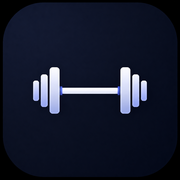
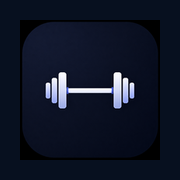
Add files via upload

Changed region(s): [[0.0, 0.0, 1.0, 1.0], [0.1667, 0.3611, 0.8333, 0.6389], [0.1111, 0.1111, 0.8889, 0.8889]]

diff --git a/styles.css b/styles.css
@@ -2,21 +2,23 @@
 :root{
   --bg:#050812;--card:#121b2d;--card2:#182338;--text:#f2f6ff;--muted:#96a6bb;
   --line:#2a3650;--brand:#70a7ff;--purple:#8b5cf6;--green:#4ade80;--yellow:#facc15;--red:#fb7185;--radius:22px;
+  --nav-bottom:78px;
+  --content-bottom:178px;
 }
 *{box-sizing:border-box}
 html,body{
-  margin:0;
-  padding:0;
-  width:100%;
-  height:100%;
-  background:#050812!important;
-  color-scheme:dark;
+  margin:0;padding:0;width:100%;height:100%;
+  background:#050812!important;color-scheme:dark;
+  overflow:hidden;
 }
 body{
   font-family:Inter,system-ui,-apple-system,Segoe UI,Arial,sans-serif;
   color:var(--text);
   -webkit-font-smoothing:antialiased;
-  overflow:hidden;
+}
+body.standalone{
+  --nav-bottom:12px;
+  --content-bottom:112px;
 }
 body:before{
   content:"";
@@ -52,6 +54,7 @@ label{font-size:12px;color:var(--muted);display:block;margin-bottom:7px}
   display:flex;
   flex-direction:column;
   overflow:hidden;
+  background:transparent;
 }
 .topbar{
   flex:0 0 auto;
@@ -63,57 +66,29 @@ label{font-size:12px;color:var(--muted);display:block;margin-bottom:7px}
 .title-row{display:flex;justify-content:space-between;gap:10px;align-items:flex-start}
 .brand{display:flex;gap:12px;align-items:center}
 .logo{
+  width:44px;height:44px;border-radius:16px;object-fit:contain;
+  background:#07101f;
+  padding:0;
+  border:1px solid rgba(255,255,255,.12);
+  box-shadow:0 6px 20px rgba(0,0,0,.30);
+  flex:0 0 auto;
+  display:block;
+}
+.logo-fallback{
   width:44px;height:44px;border-radius:16px;display:grid;place-items:center;position:relative;overflow:hidden;
   background:linear-gradient(135deg,#111827,#0b1020 55%,#182338);
   border:1px solid rgba(255,255,255,.14);
   box-shadow:0 6px 20px rgba(0,0,0,.30);
   flex:0 0 auto;
 }
-.logo:before{
-  content:"";
-  width:30px;height:9px;border-radius:999px;
+.logo-fallback:before{
+  content:"";width:30px;height:9px;border-radius:999px;
   background:linear-gradient(90deg,#f8fbff,#70a7ff);
-  box-shadow:
-    -13px 0 0 -2px #f8fbff,
-    13px 0 0 -2px #f8fbff,
-    -18px 0 0 -4px #70a7ff,
-    18px 0 0 -4px #70a7ff;
+  box-shadow:-13px 0 0 -2px #f8fbff,13px 0 0 -2px #f8fbff,-18px 0 0 -4px #70a7ff,18px 0 0 -4px #70a7ff;
 }
-.logo:after{content:"";position:absolute;inset:0;background:radial-gradient(circle at 25% 20%,rgba(112,167,255,.25),transparent 35%);pointer-events:none}
 h1{margin:0;font-size:18px}
 .sub{font-size:12px;color:var(--muted);margin-top:3px}
 .profile-select{max-width:116px;min-height:42px;padding:9px 10px;border-radius:14px;font-size:13px}
-
-.nav{
-  flex:0 0 auto;
-  display:flex;
-  gap:8px;
-  overflow-x:auto;
-  padding:10px 14px;
-  background:rgba(8,13,24,.90);
-  border-bottom:1px solid rgba(255,255,255,.07);
-  -webkit-overflow-scrolling:touch;
-}
-.nav::-webkit-scrollbar{display:none}
-.nav button{
-  flex:0 0 auto;
-  min-height:44px;
-  padding:9px 13px;
-  border-radius:999px;
-  display:flex;
-  align-items:center;
-  gap:6px;
-  font-size:13px;
-  background:rgba(255,255,255,.055);
-  color:var(--muted);
-  border:1px solid transparent;
-}
-.nav button.active{
-  background:rgba(112,167,255,.18);
-  border-color:rgba(112,167,255,.25);
-  color:var(--text);
-}
-.ico{font-size:17px}
 
 .content{
   flex:1 1 auto;
@@ -121,9 +96,36 @@ h1{margin:0;font-size:18px}
   overflow-y:auto;
   overflow-x:hidden;
   -webkit-overflow-scrolling:touch;
-  padding:14px 14px calc(24px + env(safe-area-inset-bottom));
+  padding:14px 14px calc(var(--content-bottom) + env(safe-area-inset-bottom));
   overscroll-behavior:contain;
 }
+
+.nav{
+  position:fixed;
+  left:50%;
+  bottom:calc(var(--nav-bottom) + env(safe-area-inset-bottom));
+  transform:translateX(-50%);
+  width:min(760px,calc(100vw - 22px));
+  z-index:2147483647;
+  background:rgba(13,20,35,.96);
+  backdrop-filter:blur(18px);
+  border:1px solid rgba(255,255,255,.10);
+  border-radius:24px;
+  padding:8px;
+  display:grid;
+  grid-template-columns:repeat(5,1fr);
+  gap:5px;
+  pointer-events:auto;
+  box-shadow:0 18px 60px rgba(0,0,0,.45);
+}
+.nav button{
+  background:transparent;color:var(--muted);padding:8px 2px;min-height:54px;
+  display:flex;flex-direction:column;align-items:center;justify-content:center;gap:2px;font-size:10.5px;
+  pointer-events:auto;
+}
+.nav button.active{background:rgba(112,167,255,.16);color:var(--text)}
+.ico{font-size:18px}
+
 .card{
   background:linear-gradient(180deg,rgba(255,255,255,.05),rgba(255,255,255,.025));
   border:1px solid rgba(255,255,255,.085);
@@ -154,5 +156,5 @@ details summary{cursor:pointer;color:#d6e6ff;font-weight:800;padding:10px 0}.alt
 .calendar-card{border:1px solid var(--line);background:rgba(255,255,255,.035);border-radius:22px;padding:14px}.calendar-top{display:flex;align-items:center;justify-content:space-between;gap:10px;margin-bottom:10px}.calendar-top h2{margin:0;text-align:center;text-transform:lowercase}.calendar-top p{margin:3px 0 0;text-align:center;font-size:12px}.calendar-top button{min-width:46px;padding:10px 12px;font-size:22px;line-height:1}
 .calendar-legend{display:flex;justify-content:center;gap:12px;flex-wrap:wrap;color:var(--muted);font-size:12px;margin:8px 0 12px}.legend-dot{width:10px;height:10px;display:inline-block;border-radius:999px;margin-right:5px}.legend-dot.train{background:#70a7ff}.legend-dot.diet{background:#facc15}
 .week-labels{display:grid;grid-template-columns:repeat(7,1fr);gap:4px;margin-bottom:7px}.week-labels span{text-align:center;color:var(--muted);font-size:13px;font-weight:800}.month-grid{display:grid;grid-template-columns:repeat(7,1fr);gap:6px}.cal-cell{min-height:58px;border-radius:16px;border:1px solid rgba(255,255,255,.06);background:rgba(255,255,255,.035);padding:6px 4px;display:flex;flex-direction:column;align-items:center;justify-content:space-between}.cal-cell.empty{background:transparent;border-color:transparent}.cal-cell.today{border-color:rgba(112,167,255,.65);box-shadow:0 0 0 1px rgba(112,167,255,.2) inset}.cal-day{font-size:13px;font-weight:850;color:var(--text);line-height:1}.cal-icons{display:flex;justify-content:center;align-items:center;gap:3px;min-height:28px}.cal-icon{width:25px;height:25px;border-radius:999px;display:inline-grid;place-items:center;font-size:13px;line-height:1;box-shadow:0 4px 10px rgba(0,0,0,.22)}.cal-icon.train{background:#234d88}.cal-icon.diet{background:#7b5b12}
-@media(max-width:720px){.grid.three,.grid.two,.form-grid,.calendar-grid{grid-template-columns:1fr}.card{padding:15px}h2{font-size:21px}.nav button{font-size:12px}}
+@media(max-width:720px){.grid.three,.grid.two,.form-grid,.calendar-grid{grid-template-columns:1fr}.card{padding:15px}h2{font-size:21px}}
 @media(max-width:420px){.calendar-card{padding:12px}.month-grid{gap:4px}.cal-cell{min-height:52px;border-radius:14px;padding:5px 2px}.cal-icon{width:22px;height:22px;font-size:12px}.cal-day{font-size:12px}.week-labels span{font-size:12px}}

diff --git a/app.js b/app.js
@@ -1,7 +1,7 @@
 
 const PLAN = window.PLAN_DATA;
-const KEY = "sheipados_v11";
-const OLD_KEYS = ["sheipados_v10","sheipados_v9","sheipados_v8","sheipados_v7","sheipados_v6","sheipados_v5","sheipados_v4"];
+const KEY = "sheipados_v12";
+const OLD_KEYS = ["sheipados_v11","sheipados_v10","sheipados_v9","sheipados_v8","sheipados_v7","sheipados_v6","sheipados_v5","sheipados_v4"];
 const tabs = [
   ["train","Treino","✅"],
   ["diet","Dieta","🍽️"],
@@ -9,6 +9,15 @@ const tabs = [
   ["progress","Evolução","📈"],
   ["more","Mais","⚙️"]
 ];
+
+function applyDisplayModeClass(){
+  const standalone = window.matchMedia("(display-mode: standalone)").matches || window.navigator.standalone === true;
+  document.body.classList.toggle("standalone", standalone);
+  document.body.classList.toggle("browser-mode", !standalone);
+}
+applyDisplayModeClass();
+window.matchMedia("(display-mode: standalone)").addEventListener?.("change", applyDisplayModeClass);
+
 let state = loadState();
 let activeTab = location.hash.replace("#","") || "train";
 let timers = [];
@@ -52,7 +61,7 @@ function shell(content){
     <header class="topbar">
       <div class="title-row">
         <div class="brand">
-          <div class="logo" aria-label="Sheipados"></div>
+          <img class="logo" src="./icon-192.png?v=12" alt="Sheipados" onerror="this.outerHTML='<div class=&quot;logo-fallback&quot; aria-label=&quot;Sheipados&quot;></div>'">
           <div><h1>${PLAN.project.name}</h1><div class="sub">${p.name} • ${p.goal||"Plano"}</div></div>
         </div>
         <select class="profile-select" onchange="switchProfile(this.value)">
@@ -60,8 +69,8 @@ function shell(content){
         </select>
       </div>
     </header>
-    <nav class="nav">${tabs.map(t=>`<button class="${activeTab===t[0]?"active":""}" onclick="setTab('${t[0]}')"><span class="ico">${t[2]}</span><span>${t[1]}</span></button>`).join("")}</nav>
     <main class="content">${content}</main>
+    <nav class="nav">${tabs.map(t=>`<button class="${activeTab===t[0]?"active":""}" onclick="setTab('${t[0]}')"><span class="ico">${t[2]}</span><span>${t[1]}</span></button>`).join("")}</nav>
   </div>`;
 }
 

diff --git a/index.html b/index.html
@@ -8,16 +8,16 @@
   <meta name="apple-mobile-web-app-status-bar-style" content="black-translucent" />
   <meta name="apple-mobile-web-app-title" content="Sheipados" />
   <title>Sheipados</title>
-  <link rel="manifest" href="./manifest.webmanifest" />
-  <link rel="apple-touch-icon" sizes="180x180" href="./apple-touch-icon.png" />
-  <link rel="icon" type="image/png" sizes="192x192" href="./icon-192.png" />
-  <link rel="icon" type="image/png" sizes="512x512" href="./icon-512.png" />
-  <link rel="shortcut icon" href="./favicon.ico" />
-  <link rel="stylesheet" href="./styles.css" />
+  <link rel="manifest" href="./manifest.webmanifest?v=12" />
+  <link rel="apple-touch-icon" sizes="180x180" href="./apple-touch-icon.png?v=12" />
+  <link rel="icon" type="image/png" sizes="192x192" href="./icon-192.png?v=12" />
+  <link rel="icon" type="image/png" sizes="512x512" href="./icon-512.png?v=12" />
+  <link rel="shortcut icon" href="./favicon.ico?v=12" />
+  <link rel="stylesheet" href="./styles.css?v=12" />
 </head>
 <body>
   <div id="app"></div>
-  <script src="./data.js"></script>
-  <script src="./app.js"></script>
+  <script src="./data.js?v=12"></script>
+  <script src="./app.js?v=12"></script>
 </body>
 </html>

diff --git a/sw.js b/sw.js
@@ -1,4 +1,4 @@
-const CACHE="sheipados-v11";
+const CACHE="sheipados-v12";
 const ASSETS=["./","./index.html","./styles.css","./app.js","./data.js","./manifest.webmanifest","./apple-touch-icon.png","./icon-192.png","./icon-512.png","./favicon.ico","./icons/apple-touch-icon.png","./icons/icon-180.png","./icons/icon-192.png","./icons/icon-512.png"];
 self.addEventListener("install",e=>{self.skipWaiting();e.waitUntil(caches.open(CACHE).then(c=>c.addAll(ASSETS)))});
 self.addEventListener("activate",e=>{e.waitUntil(caches.keys().then(keys=>Promise.all(keys.filter(k=>k!==CACHE).map(k=>caches.delete(k)))));self.clients.claim()});

diff --git a/README.md b/README.md
@@ -1,12 +1,19 @@
-# Sheipados — v11 Chrome Fix
+# Sheipados — v12 Floating Chrome Fix
 
-Mudança principal:
-- Rodapé virou navegação superior em formato de abas, logo abaixo do cabeçalho.
-- Isso elimina conflito de clique com a barra inferior do Chrome no iPhone.
-- Cabeçalho usa ícone de halter em CSS, então não quebra mesmo se algum arquivo de imagem falhar.
-- Ícones do PWA estão também na raiz: apple-touch-icon.png, icon-192.png, icon-512.png e favicon.ico.
-- Mantida pasta /icons para compatibilidade.
+O que mudou:
+- Volta do menu flutuante inferior.
+- No Chrome/iPhone, o menu fica mais alto para não brigar com a barra inferior do navegador.
+- Em modo app instalado/standalone, o menu volta para baixo.
+- Ícone com padding interno para não cortar.
+- Cabeçalho usa o PNG do ícone; se falhar, cai para halter desenhado em CSS.
+- Mantém calendário de progresso na aba Evolução.
 
-Importante:
-- No GitHub, suba também os arquivos de imagem da raiz.
-- Depois de atualizar, abra o link com ?v=11 ou limpe cache/reinstale o atalho.
+Por que a v7 funcionava e as posteriores quebraram:
+- A partir das correções de rolagem, o app passou a travar o body e usar uma área interna de scroll.
+- Isso resolveu o espaço infinito, mas no Chrome/iPhone o menu fixo ficou numa zona ruim perto da barra inferior do navegador.
+- A v12 mantém a correção de scroll e desloca o menu flutuante para uma área clicável no Chrome.
+
+Atualização:
+- Substitua todos os arquivos.
+- Abra com ?v=12 para furar cache:
+  https://rogeriolucena.github.io/Portal-performance-rogerio/?v=12